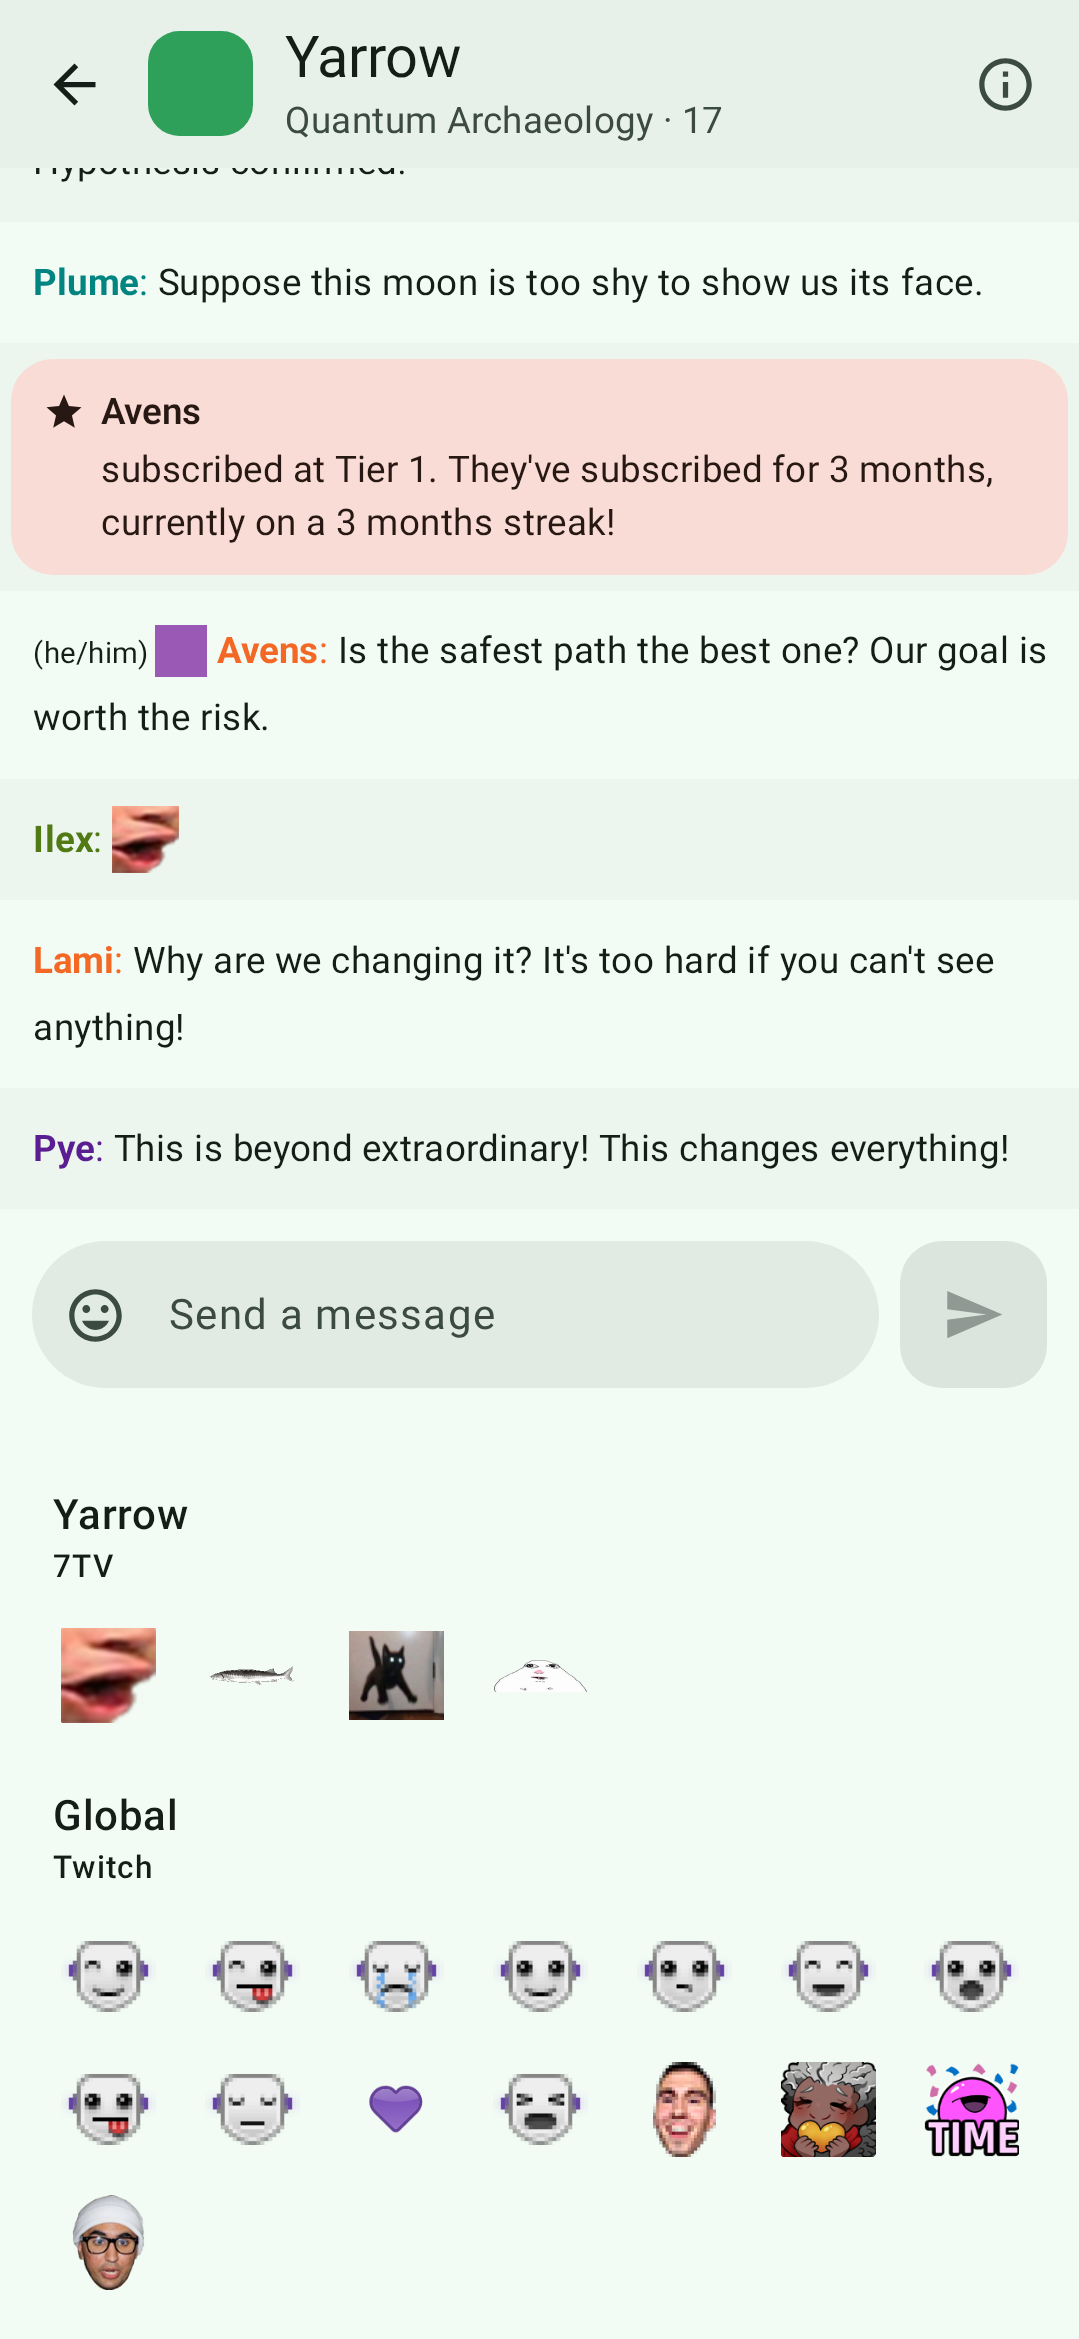
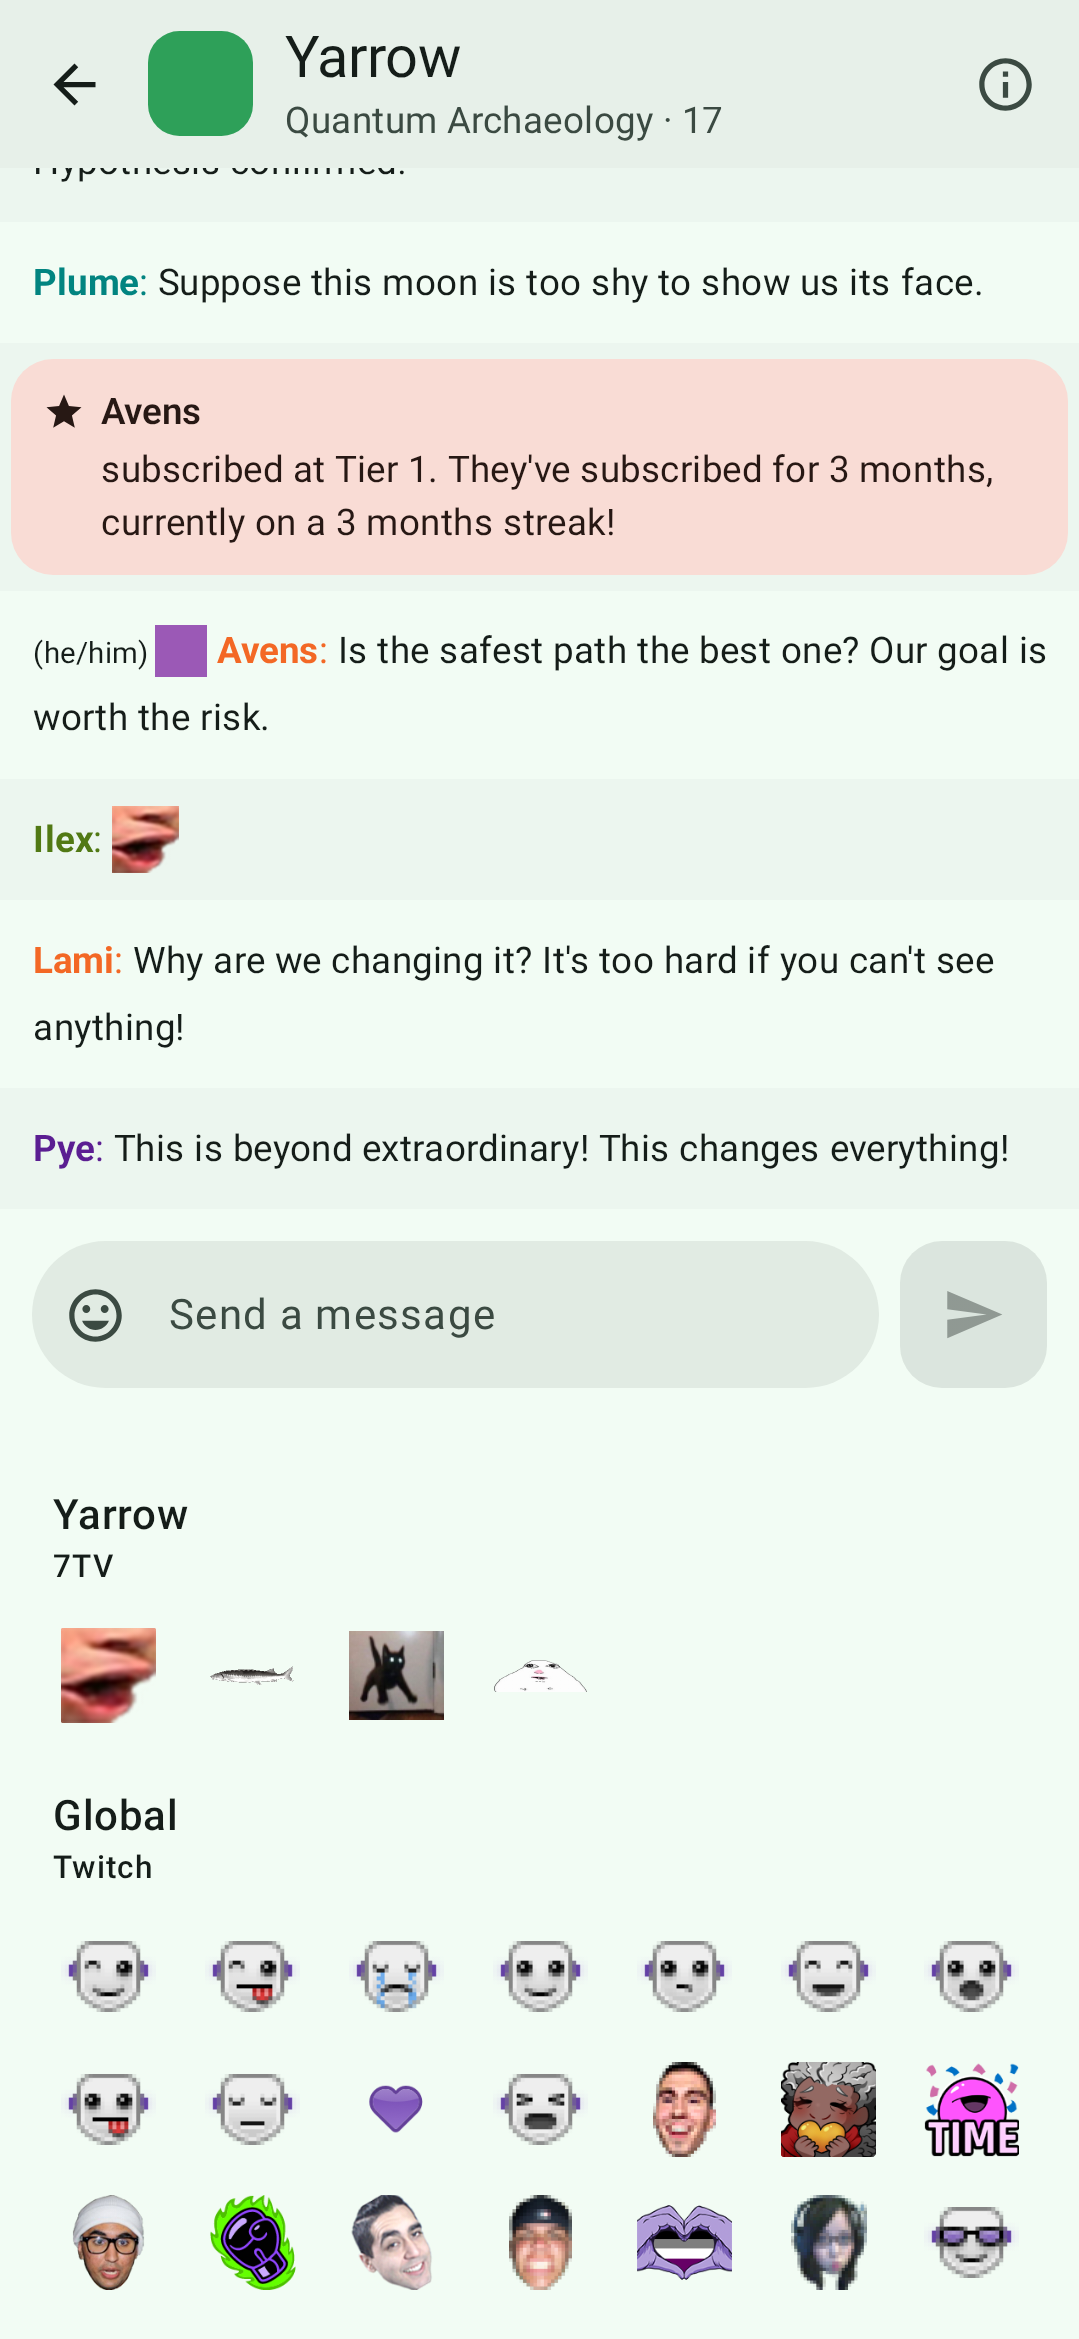
feat: add more emotes again

diff --git a/app-android/src/screenshotTest/kotlin/fr/outadoc/justchatting/landing/LandingFixtures.kt b/app-android/src/screenshotTest/kotlin/fr/outadoc/justchatting/landing/LandingFixtures.kt
@@ -155,7 +155,8 @@ internal object LandingFixtures {
         ratio: Float = 1f,
     ) = Emote(name = name, urls = EmoteUrls(url = drawable("demo_emote_twitch_$file")), ratio = ratio)
 
-    // The first global Twitch emotes, like in the demo mode.
+    // The first global Twitch emotes, like in the demo mode: three full rows in the emote picker
+    // of the screenshots.
     private val globalEmotes: List<Emote> =
         listOf(
             twitchEmote(";)", "winky", ratio = 72f / 54f),
@@ -173,6 +174,12 @@ internal object LandingFixtures {
             twitchEmote("AmbessaLove", "ambessalove"),
             twitchEmote("AndTime", "andtime"),
             twitchEmote("ANELE", "anele"),
+            twitchEmote("AnotherRecord", "anotherrecord"),
+            twitchEmote("ArgieB8", "argieb8"),
+            twitchEmote("ArsonNoSexy", "arsonnosexy", ratio = 54f / 81f),
+            twitchEmote("AsexualPride", "asexualpride"),
+            twitchEmote("AsianGlow", "asianglow", ratio = 72f / 90f),
+            twitchEmote("B)", "cool", ratio = 72f / 54f),
         )
 
     val pickableEmotes: ImmutableList<EmoteSetItem> =

diff --git a/shared/src/commonMain/kotlin/fr/outadoc/justchatting/feature/demo/data/DemoData.kt b/shared/src/commonMain/kotlin/fr/outadoc/justchatting/feature/demo/data/DemoData.kt
@@ -289,6 +289,12 @@ internal object DemoData {
                 twitchEmote("AmbessaLove", "ambessalove"),
                 twitchEmote("AndTime", "andtime"),
                 twitchEmote("ANELE", "anele"),
+                twitchEmote("AnotherRecord", "anotherrecord"),
+                twitchEmote("ArgieB8", "argieb8"),
+                twitchEmote("ArsonNoSexy", "arsonnosexy", ratio = 54f / 81f),
+                twitchEmote("AsexualPride", "asexualpride"),
+                twitchEmote("AsianGlow", "asianglow", ratio = 72f / 90f),
+                twitchEmote("B)", "cool", ratio = 72f / 54f),
             )
 
     private fun twitchEmote(
